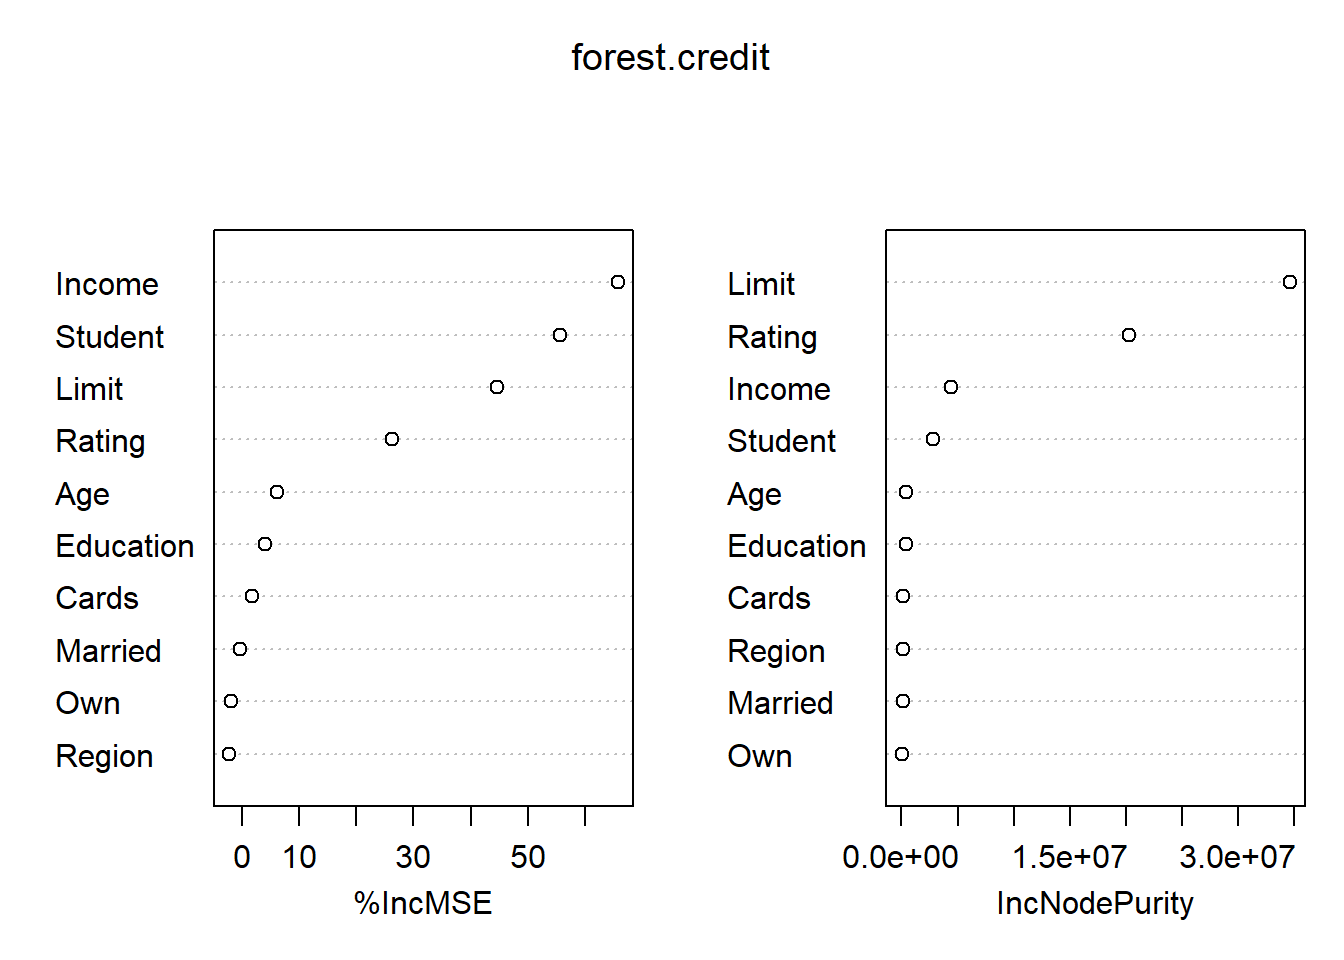
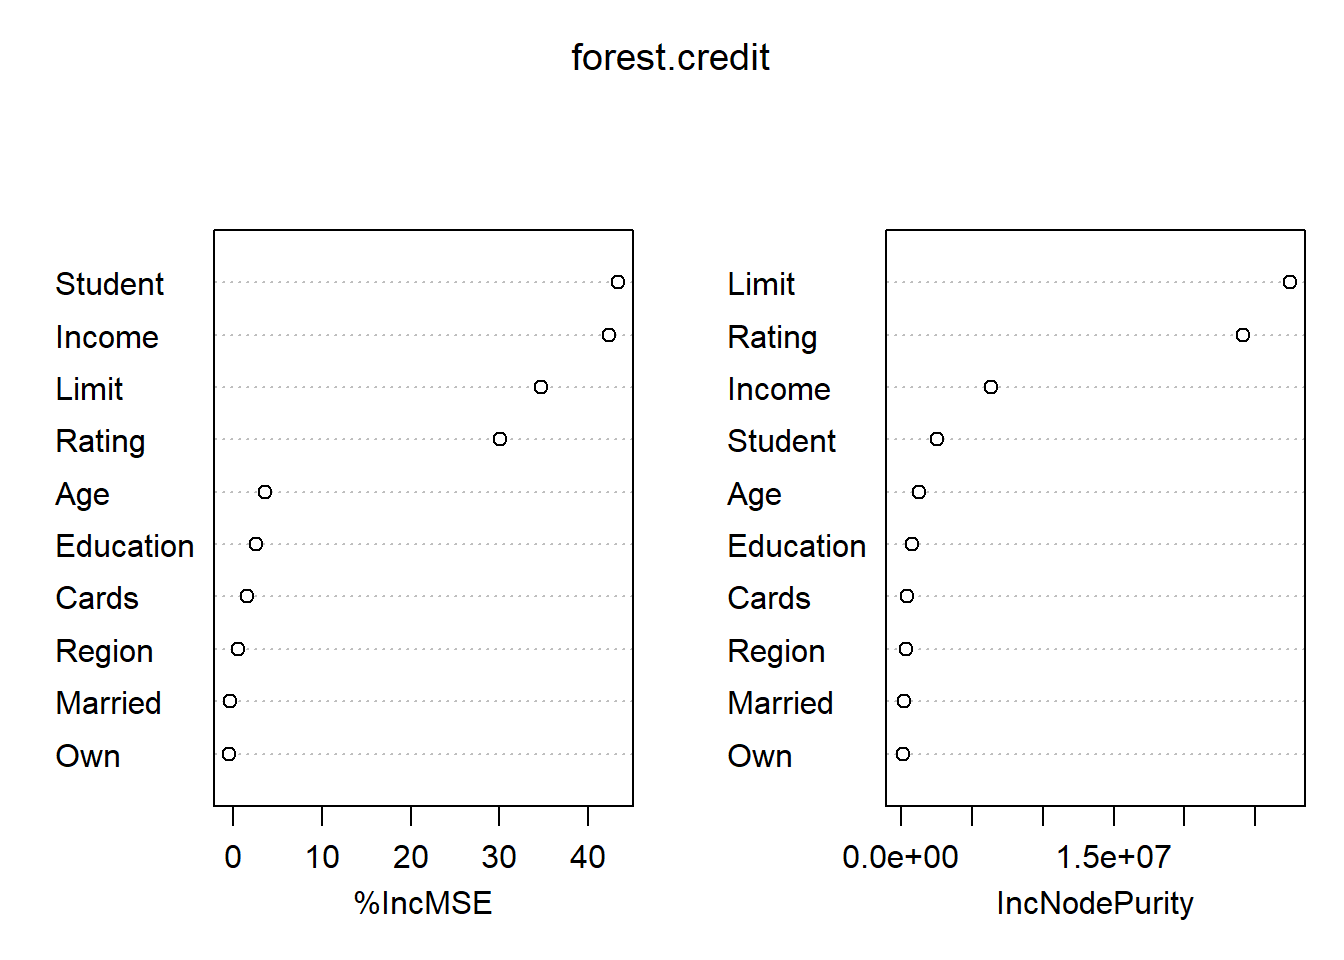
Seminar 2 update

diff --git a/docs/seminar-2.html b/docs/seminar-2.html
@@ -867,6 +867,7 @@ node), split, n, deviance, yval
 </section>
 <section id="bagging" class="level2">
 <h2 class="anchored" data-anchor-id="bagging">Bagging</h2>
+<p>You can implement Bagging using the <code>randomForest</code> code (see p.&nbsp;357). The function <code>ipred</code> is also suggested in the notes. All you need to do is ensure that you always predict on all regressors. In this example, there are 10 regressors.</p>
 <div class="cell">
 <div class="sourceCode cell-code" id="cb45"><pre class="sourceCode r code-with-copy"><code class="sourceCode r"><span id="cb45-1"><a href="#cb45-1" aria-hidden="true" tabindex="-1"></a><span class="fu">set.seed</span>(<span class="dv">8</span>)</span>
 <span id="cb45-2"><a href="#cb45-2" aria-hidden="true" tabindex="-1"></a>bag.credit <span class="ot">&lt;-</span> <span class="fu">randomForest</span>(Balance <span class="sc">~</span> . , <span class="at">data=</span> credit.train,<span class="at">mtry =</span> <span class="dv">10</span>, <span class="at">importance =</span> <span class="cn">TRUE</span>)</span>
@@ -897,9 +898,10 @@ No. of variables tried at each split: 10
 </section>
 <section id="random-forest" class="level2">
 <h2 class="anchored" data-anchor-id="random-forest">Random Forest</h2>
+<p>You can implement Random Forest using the same code. All you need to do is ensure that you reduce the number of regressors selected each time.</p>
 <div class="cell">
 <div class="sourceCode cell-code" id="cb49"><pre class="sourceCode r code-with-copy"><code class="sourceCode r"><span id="cb49-1"><a href="#cb49-1" aria-hidden="true" tabindex="-1"></a><span class="fu">set.seed</span>(<span class="dv">9</span>)</span>
-<span id="cb49-2"><a href="#cb49-2" aria-hidden="true" tabindex="-1"></a>forest.credit <span class="ot">&lt;-</span> <span class="fu">randomForest</span>(Balance <span class="sc">~</span> . , <span class="at">data=</span> credit.train,<span class="at">mtry =</span> <span class="dv">10</span>, <span class="at">importance =</span> <span class="cn">TRUE</span>)</span>
+<span id="cb49-2"><a href="#cb49-2" aria-hidden="true" tabindex="-1"></a>forest.credit <span class="ot">&lt;-</span> <span class="fu">randomForest</span>(Balance <span class="sc">~</span> . , <span class="at">data=</span> credit.train,<span class="at">mtry =</span> <span class="dv">5</span>, <span class="at">importance =</span> <span class="cn">TRUE</span>)</span>
 <span id="cb49-3"><a href="#cb49-3" aria-hidden="true" tabindex="-1"></a>forest.pred <span class="ot">&lt;-</span> <span class="fu">predict</span>(forest.credit, <span class="at">newdata =</span> credit.test)</span>
 <span id="cb49-4"><a href="#cb49-4" aria-hidden="true" tabindex="-1"></a><span class="fu">plot</span>(forest.pred , credit.testY)</span>
 <span id="cb49-5"><a href="#cb49-5" aria-hidden="true" tabindex="-1"></a> <span class="fu">abline</span>(<span class="dv">0</span>, <span class="dv">1</span>)</span></code><button title="Copy to Clipboard" class="code-copy-button"><i class="bi"></i></button></pre></div>
@@ -912,21 +914,21 @@ No. of variables tried at each split: 10
 </div>
 <div class="sourceCode cell-code" id="cb50"><pre class="sourceCode r code-with-copy"><code class="sourceCode r"><span id="cb50-1"><a href="#cb50-1" aria-hidden="true" tabindex="-1"></a>MSE.forest <span class="ot">&lt;-</span> <span class="fu">mean</span>((forest.pred <span class="sc">-</span> credit.testY)<span class="sc">^</span><span class="dv">2</span>)</span></code><button title="Copy to Clipboard" class="code-copy-button"><i class="bi"></i></button></pre></div>
 </div>
-<p>We can view the importance of each variable:</p>
+<p>We can view the importance of each variable (see p.359):</p>
 <div class="cell">
 <div class="sourceCode cell-code" id="cb51"><pre class="sourceCode r code-with-copy"><code class="sourceCode r"><span id="cb51-1"><a href="#cb51-1" aria-hidden="true" tabindex="-1"></a><span class="fu">importance</span>(forest.credit)</span></code><button title="Copy to Clipboard" class="code-copy-button"><i class="bi"></i></button></pre></div>
 <div class="cell-output cell-output-stdout">
 <pre><code>             %IncMSE IncNodePurity
-Income    65.6344496    4435353.87
-Limit     44.5100467   34575258.49
-Rating    26.2543973   20230908.15
-Cards      1.7636025     178265.35
-Age        6.1622703     429923.12
-Education  4.1044398     378287.40
-Own       -1.8976022      57244.49
-Student   55.5654832    2778949.90
-Married   -0.2942654      99967.08
-Region    -2.1374350     134736.65</code></pre>
+Income    42.3912507     6330962.3
+Limit     34.6335482    27443953.1
+Rating    30.0028867    24137311.4
+Cards      1.5694270      416814.6
+Age        3.5262315     1269395.6
+Education  2.5241391      713138.2
+Own       -0.4445780      112842.9
+Student   43.3139207     2529273.1
+Married   -0.4083316      152515.5
+Region     0.4913264      297770.1</code></pre>
 </div>
 <div class="sourceCode cell-code" id="cb53"><pre class="sourceCode r code-with-copy"><code class="sourceCode r"><span id="cb53-1"><a href="#cb53-1" aria-hidden="true" tabindex="-1"></a><span class="fu">varImpPlot</span>(forest.credit)</span></code><button title="Copy to Clipboard" class="code-copy-button"><i class="bi"></i></button></pre></div>
 <div class="cell-output-display">
@@ -953,7 +955,7 @@ PrunedTree  49255.46
 Tree2       34343.51
 PrunedTree2 34343.51
 Bag         12386.55
-Forest      12738.86</code></pre>
+Forest      17411.44</code></pre>
 </div>
 </div>
 
